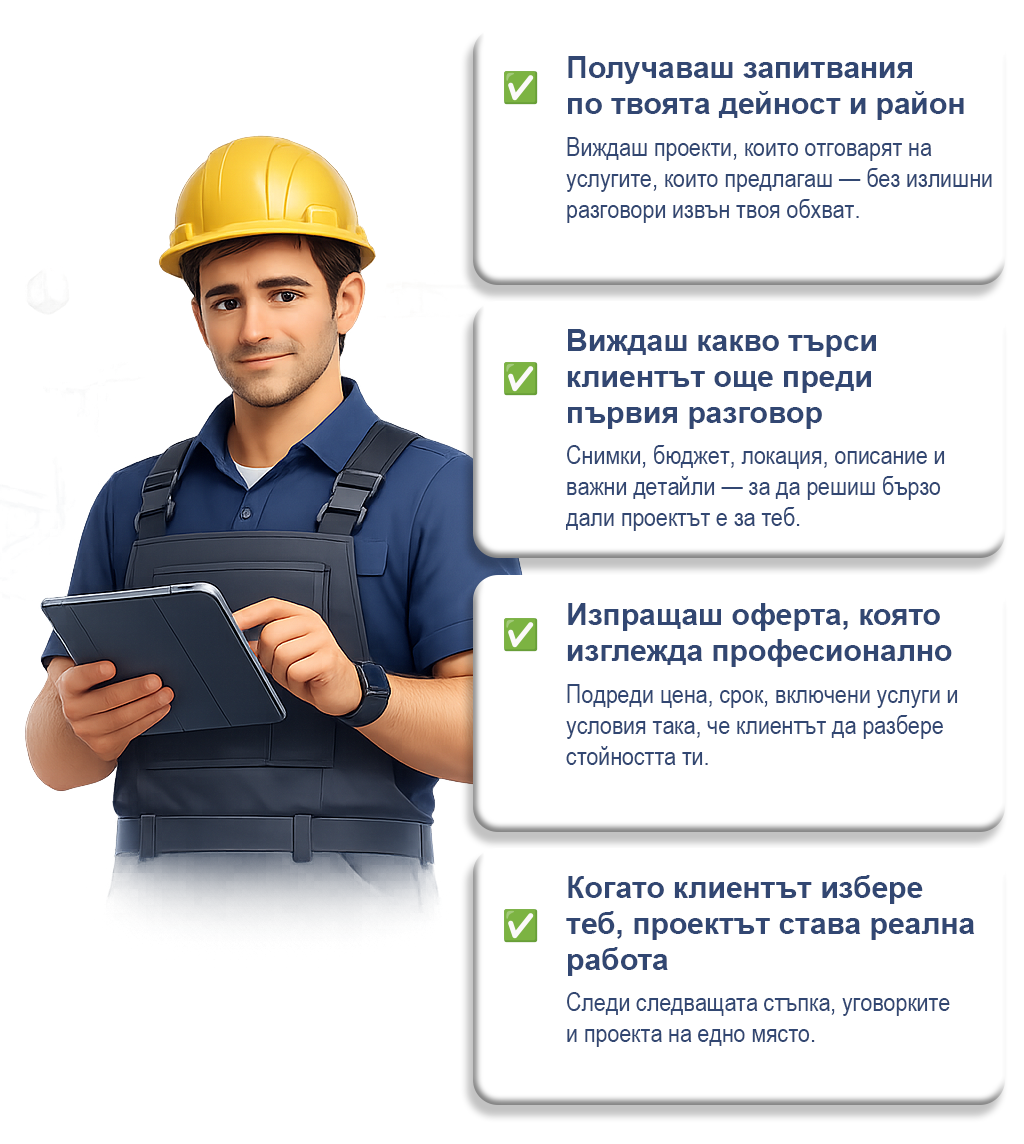
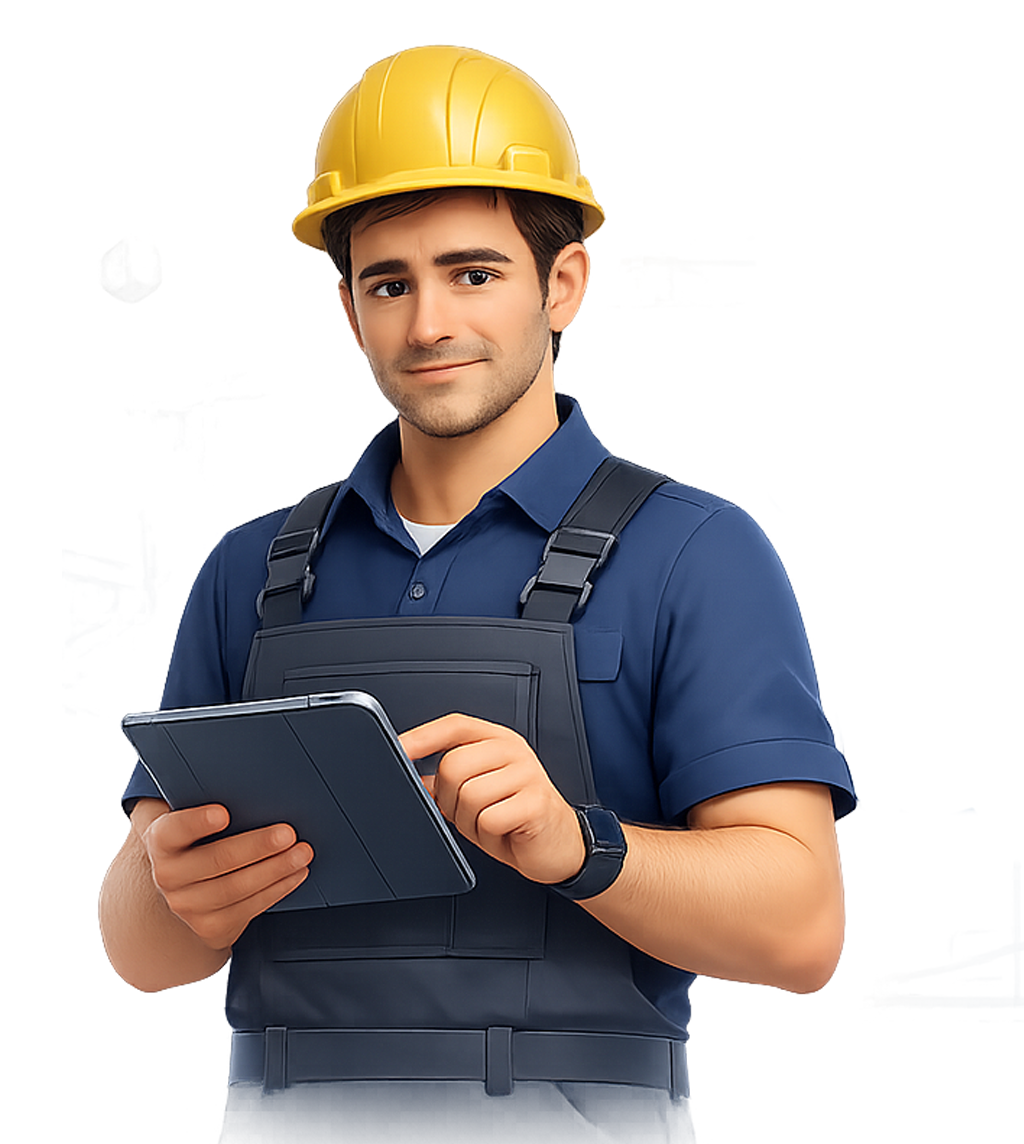
1

diff --git a/src/pages/TotsanPro.jsx b/src/pages/TotsanPro.jsx
@@ -73,8 +73,8 @@ const plans = [
     cta: 'Кандидатствай безплатно',
     to: PRO_SIGNUP_URL,
     imageWidth: '18rem',
-    imageRight: '-4.5rem',
-    imageBottom: '-5rem',
+    imageRight: '-1rem',
+    imageBottom: '3rem',
     imageOpacity: 0.7,
   },
   {
@@ -87,8 +87,8 @@ const plans = [
     cta: 'Научи повече',
     to: PRO_SIGNUP_URL,
     imageWidth: '18rem',
-    imageRight: '-4.5rem',
-    imageBottom: '-5rem',
+    imageRight: '-1rem',
+    imageBottom: '3rem',
     imageOpacity: 0.7,
   },
   {
@@ -101,8 +101,8 @@ const plans = [
     cta: 'Говори с нас',
     to: '/kontakt',
     imageWidth: '18rem',
-    imageRight: '-4.5rem',
-    imageBottom: '-5rem',
+    imageRight: '-1rem',
+    imageBottom: '3rem',
     imageOpacity: 0.7,
   },
 ]
